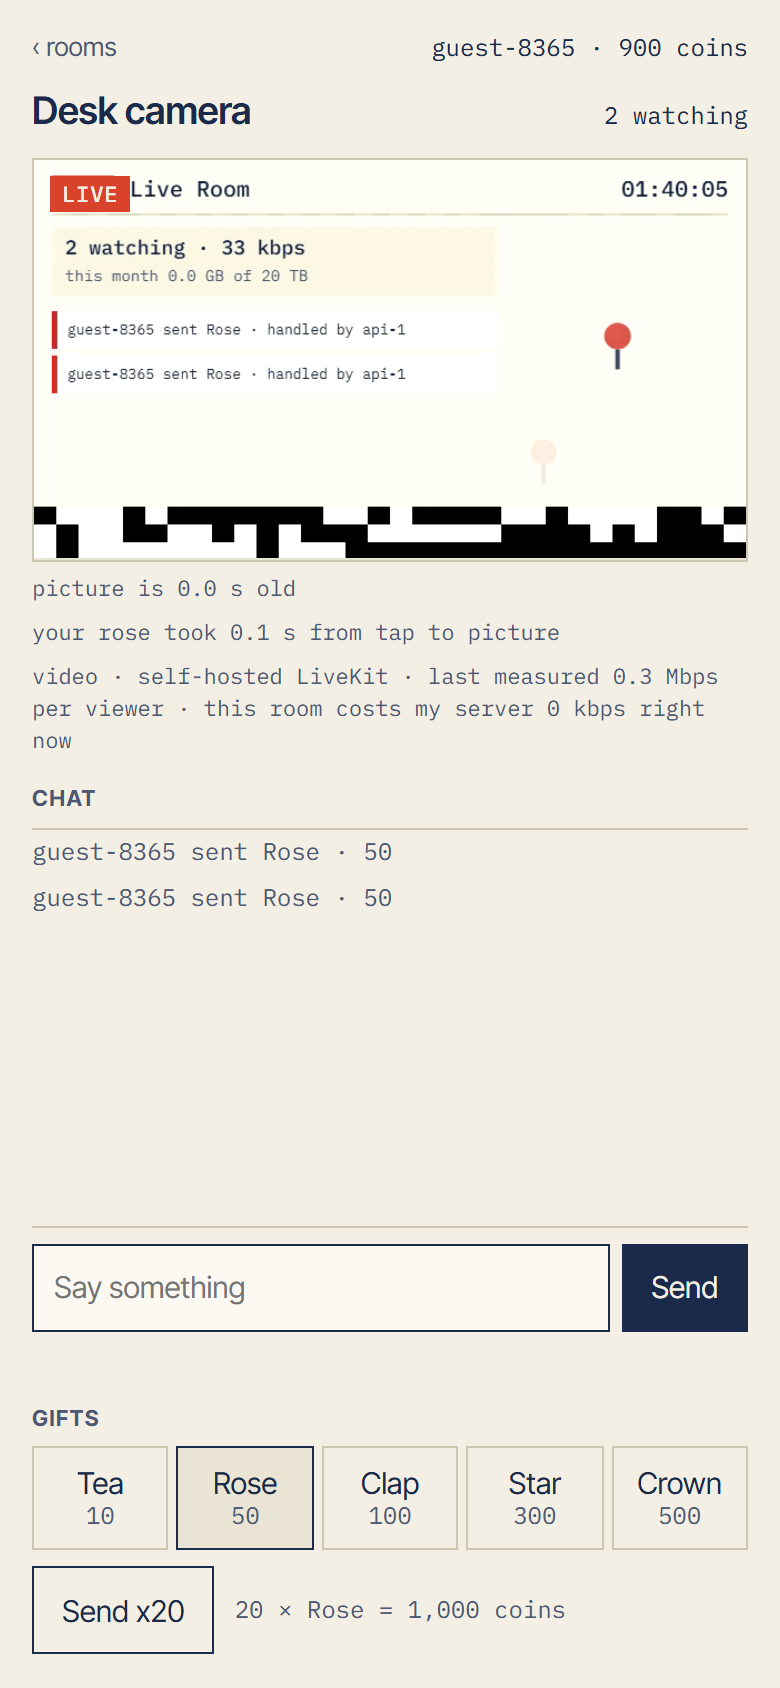
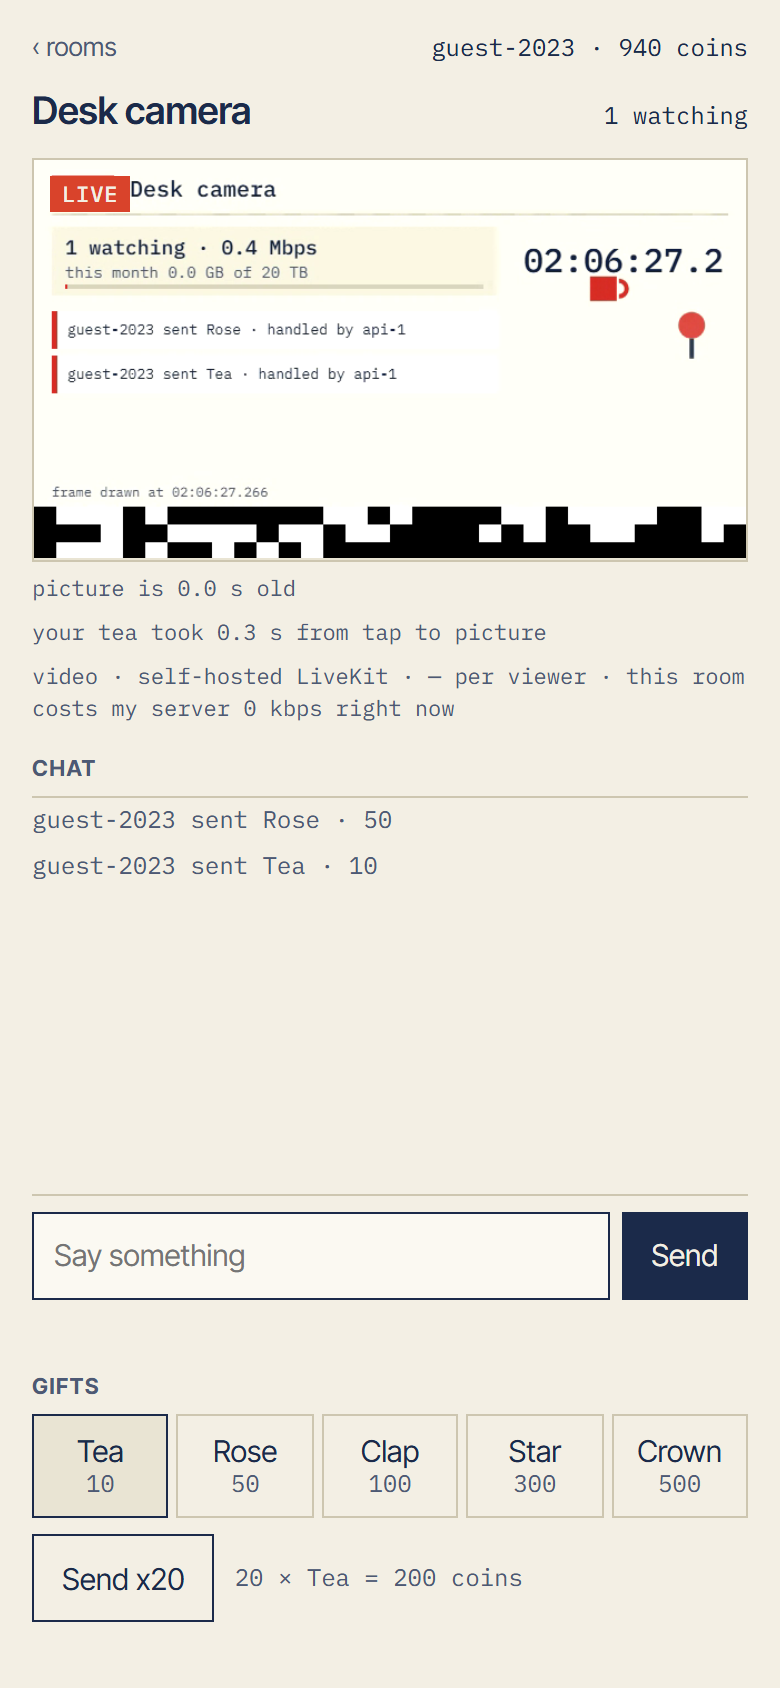
show the new stream in the readme lead image and screenshot

diff --git a/README.md b/README.md
@@ -1,7 +1,7 @@
 I built Live Room to show a live-streaming backend end to end: video and audio rooms, chat, gifts paid from a coin wallet, and an admin view of bandwidth.
 It is live at https://live.tahmidalavi.com: one video room and one audio room, each with a house stream, chat and gifts. `/admin` is read-only unless you sign in, and `/hood` streams the event log from both API processes.
 
-<img src="docs/phone-video-room.png" width="300" alt="The video room on a phone: the house test card playing live, chat, and the gift buttons">
+<img src="docs/phone-video-room.png" width="300" alt="The video room on a phone: the live canvas with a gift card, the meter and a clock above the stamp strip, then chat and the gift buttons">
 
 
 ## The hardest decision
@@ -60,9 +60,9 @@ Playwright starts LiveKit, the API and the web app if they are not already runni
 
 The two house rooms are kept alive by a small worker in `house/` that drives headless Chromium and publishes from the page at `/house`. The audio room is published from boot, from a fake audio device. The video room is published at 640x360, 15 fps, one layer (about 0.8 Mbps at most), and only while someone is watching: it stops 60 s after the last viewer leaves or when the monthly transfer budget pauses video.
 
-The video is not a looping clip. The `/house` page draws the room onto a canvas and publishes the canvas: a card for every gift ("guest-5070 sent Rose, handled by api-1") and every join, the gift's icon falling, a meter with the viewer count, the server's outgoing rate and the month's transfer against the budget, and a clock. The cards, the falling icons and the watcher count come from the API's private feed. The outgoing rate and the month's transfer come from the public `/bandwidth` numbers, which the worker polls every 5 s and hands to the page. The clock and the time in the strip are the house machine's own time. So it is the real room, not a recording of one.
+The video is not a looping clip. The `/house` page draws the room onto a canvas and publishes the canvas: a card for every gift ("guest-5070 sent Rose · handled by api-1") and every join, the gift's icon falling, a meter with the viewer count, the server's outgoing rate and the month's transfer against the budget (with a thin bar for how much of it is used), the room's title, and a large clock. The cards and the falling icons come from the API's private feed, and the watcher count from the worker's own look at the room every 2 s, so a lone viewer is counted too. The outgoing rate and the month's transfer come from the public `/bandwidth` numbers, which the worker polls every 5 s and hands to the page. The clock and the time in the strip are the house machine's own time. So it is the real room, not a recording of one.
 
-<img src="docs/phone-house-stream.png" width="300" alt="The video room on a phone: the canvas with a join card, two gift cards naming the API process, the meter and the stamp strip, and under it the picture's age and a gift's tap-to-picture time">
+<img src="docs/phone-house-stream.png" width="300" alt="The video room on a phone: the canvas with two gift cards naming the API process, a falling icon, the meter with its fill bar, the clock, the frame-drawn time and the stamp strip, and under it the picture's age and a gift's tap-to-picture time">
 
 The black and white strip along the bottom edge carries the time the frame was drawn and the code of the newest gift. The phone copies the video down to 160x90, reads the strip back, and shows how old the picture is and how long a gift took from the tap to the picture. That is measured through the real path (encode, LiveKit, decode), not estimated. The two clocks are lined up from a request to the API, so a phone with the wrong time still gets the right age.
 
